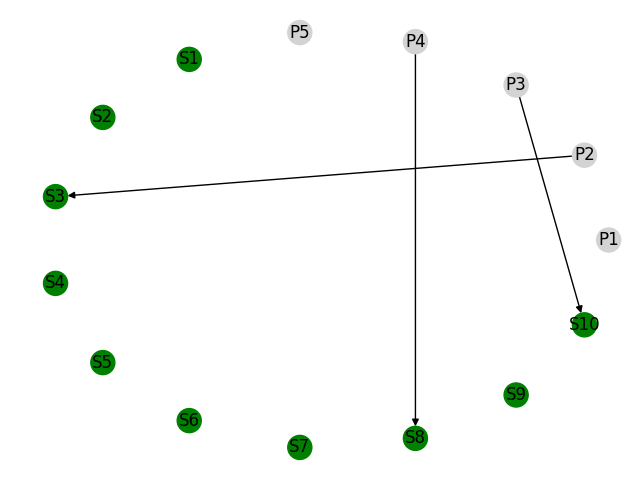
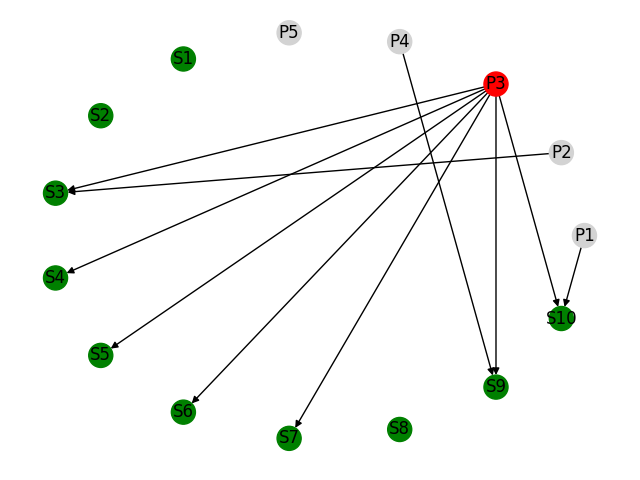
set up a primitive neural network

diff --git a/neural_network.py b/neural_network.py
@@ -6,7 +6,7 @@ import matplotlib.pyplot as plt
 
 primary_neurons = []
 secondary_neurons = []
-synapses = {}
+synapses = []
 for i in range (5):
     primary_neurons.append(nc.Primary_Neuron(f"P{i+1}"))
 
@@ -19,19 +19,13 @@ for p_neuron in primary_neurons:
         for s_neuron in secondary_neurons: 
             rando = random.random()
             if rando <= 0.4: 
-                synapses[p_neuron.name] = s_neuron.name
+                synapses.append(nc.Synapse(p_neuron,s_neuron))
                 
     else:
         for s_neuron in secondary_neurons:
             rando = random.random()
             if rando <= 0.1: 
-                synapses[p_neuron.name] = s_neuron.name
-
-indices = []
-indices.append(i for i in range(100))
-data_frame = pd.DataFrame(synapses, indices).transpose() # we must pass an index, else we get an error
-
-print(data_frame)
+                synapses.append(nc.Synapse(p_neuron,s_neuron))
 
 G = nx.DiGraph()
 for neuron in primary_neurons:
@@ -40,8 +34,14 @@ for neuron in primary_neurons:
 for neuron in secondary_neurons:
     G.add_node(neuron.name, color="green")
 
-for primary, secondary in synapses.items(): 
-    G.add_edge(primary, secondary)
+# for primary, secondary in synapses.items(): 
+#     G.add_edge(primary, secondary)
+
+for synapse in synapses: 
+    p_neuron = synapse.presynaptic_neuron.name
+    s_neuron = synapse.postsynaptic_neuron.name
+    # print(p_neuron, s_neuron)
+    G.add_edge(p_neuron, s_neuron)
 
 # Extract node colors for drawing
 node_colors = [data.get("color", "lightgray") for _, data in G.nodes(data=True)]
@@ -49,7 +49,23 @@ node_colors = [data.get("color", "lightgray") for _, data in G.nodes(data=True)]
 nx.draw_circular(G, node_color=node_colors, with_labels=True, arrows=True)
 plt.savefig("neural_network.png")
 
+for neuron in primary_neurons:
+    neuron.simulate()
 
+for synapse in synapses:
+    signal = synapse.get_signal()
+    print(synapse.postsynaptic_neuron.name, signal)
+    synapse.postsynaptic_neuron.signals.append(signal)
+
+for s_neuron in secondary_neurons: 
+    print(s_neuron.name, s_neuron.signals)
+
+output = []
+for neuron in secondary_neurons: 
+    output.append(neuron.simulate())
+
+for element in output: 
+    print(element)
 
                 
 

diff --git a/neuron_classes.py b/neuron_classes.py
@@ -21,20 +21,23 @@ class Primary_Neuron:
 class Secondary_Neuron:
     def __init__(self, name, resting_potential=-60, threshold=10, post_fire_potential=-100):       
         self.name = name
+        self.signals = []  # a list used to collect all the different signals given to the neuron
         self.membrane_potential = resting_potential
         self.threshold = threshold
         self.post_fire_potential = post_fire_potential
         self.consecutive_rest = 0
        
-    def simulate(self, signal):
-        self.membrane_potential += signal
+    def simulate(self):
+        for signal in self.signals:
+            self.membrane_potential += signal
 
     # if the neuron reaches threshold it fires and its membrane potential is set back down
+        previous_potential = self.membrane_potential
         if self.membrane_potential >= self.threshold:
             temp = self.membrane_potential
             self.membrane_potential = self.post_fire_potential
             return f"{self.name}: {temp} --> Fires!"
-        elif signal < 0: 
+        elif self.membrane_potential < previous_potential: 
             return f"{self.name}: {self.membrane_potential} --> Inhibited"
         else:
             return f"{self.name}: {self.membrane_potential} --> Rests"        
